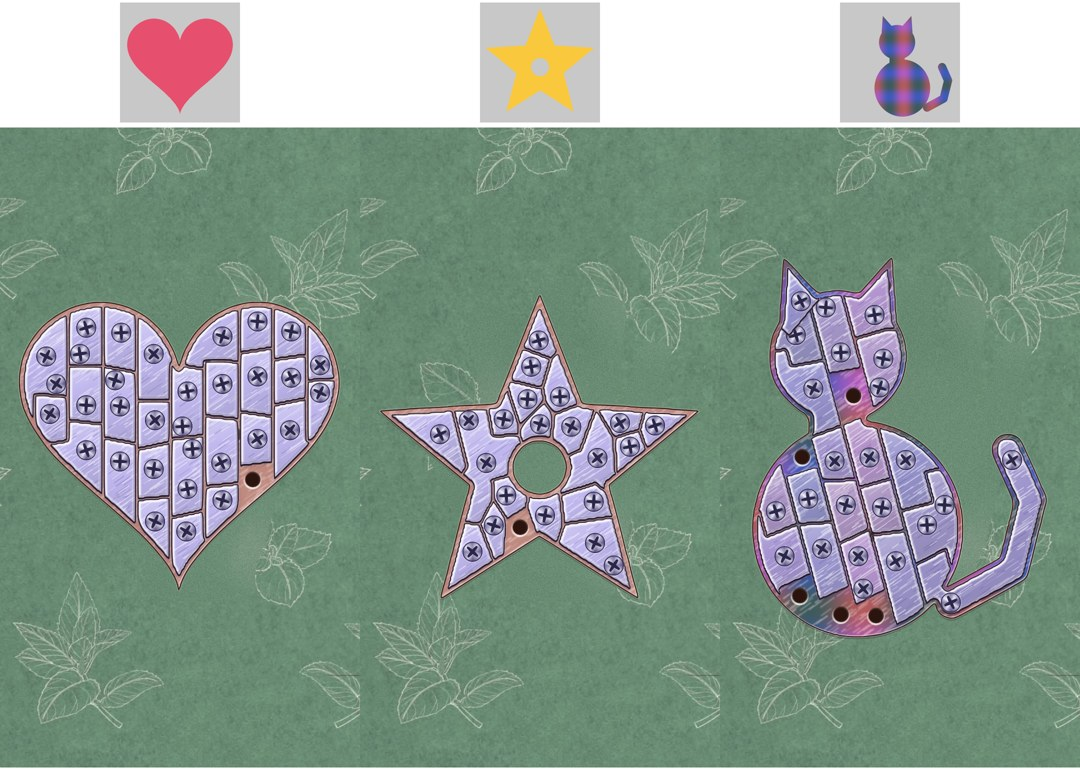
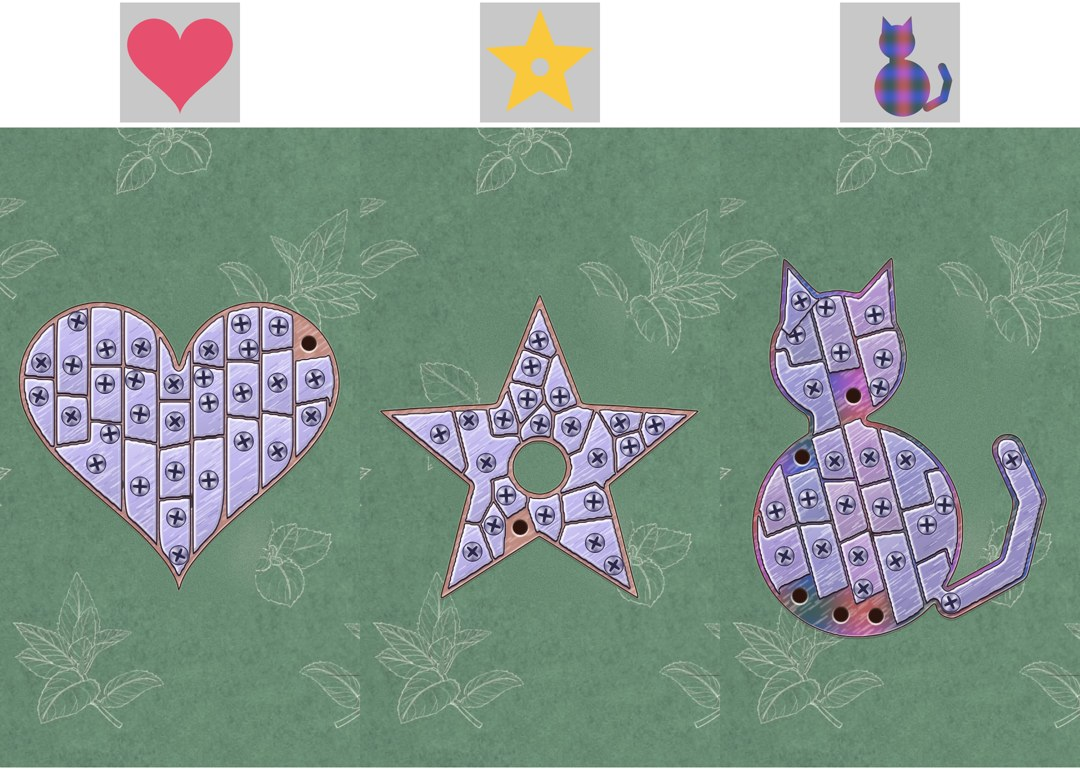
v1.7.1: 同层板块不再穿模

Changed region(s): [[0.0, 0.4052, 0.3056, 0.7481]]

diff --git a/ref/PROGRESS.md b/ref/PROGRESS.md
@@ -60,3 +60,7 @@
 - v1.7：板块之间碰撞。src/world.js（planck.js + poly-decomp，打包进单文件）：板=刚体（静态/铰接摆动/自由下落），螺丝=静态圆，穿过对（变为动态时重叠的对，分开后恢复），卡住兜底 collStuckMs，碰撞轮廓内缩 ppInset，角阻尼 angDamp。删除 v1.6 的 collMaxMs 截止与永久忽略。逻辑：setSwingAngle 同步摆动板实际停下的角度；自动通关逐步校验计划、失效即重解，等摆动静止/遮挡解除；选螺丝查画面遮挡。设置 v11（collMaxMs→collStuckMs；新增 plateCollide/ppRest/ppFric/ppInset/angDamp）。随机关生成修复（以前总回退参考关卡）。测试：test:collision 重写（16 项，含两板下落互撞、落到固定板、叠放穿过、摆动被板/螺丝挡住），test:autoall（参考/随机×3/图形 全程自动通关无板残留），test/collision-video.mjs 逐帧抓取。截图 screenshots/plate_plate_collision.jpg；/workspace/screw_plate_collision.mp4（12s）。
 - v1.7 收尾（完成，提交 e3637a1 'v1.7: 板块之间碰撞'）：自动通关在目标孔仍被画面上的板挡住时把螺丝放回并重新规划（window.__autoStats replan/abort/dev），__game.solveNow/physBusy。全部测试通过：test:logic、npm test(25/25, 43s)、test:ae(PSNR 均值 35.3)、test:3d(Blender PASS, PSNR 27–30)、test:physics、test:norec、test:holes、test:collision(16/16)、test:collcap、test:autoall(5/5，replan/abort/dev 均 0)、shape-test(heart/star_hole/cat)。Pages 与服务器 /screw/ cmp 一致。
 - 已知：被托住 >collStuckMs(1.2s) 的下落板会关闭碰撞穿过掉出（参考关卡 25 块中约 13 块触发，ghosts 计数），想让穿过更少可调大 collStuckMs（等更久再穿过），或增大 ppInset（碰撞轮廓内缩更多，邻板边缘更不容易托住下落板）；swingSyncedAngles 里的 0 表示摆动板一开始就被挡住几乎没转。
+- v1.7.1（完成）同层板块不再穿模（用户截图：heart 图形关卡单钉摆动板穿入左邻板与螺丝）。根因：图形关卡板轮廓很密（96–1400 点），旧 quickDecomp/earClip 静默失败，碰撞夹具只覆盖板面积 1–57%。修复：world.js cleanPoly + 保证推进的耳切 + Hertel–Mehlhorn 合并（夹具/内缩轮廓覆盖率 参考 ≥98.9%、随机 100%、heart ≥98.2%、star_hole ≥99.1%、cat ≥99.8%，test:cover）；同层板永不穿过，不同层仅当真实重叠 > ppPassArea(40px²)；板-螺丝只对自己孔里的螺丝穿过；逻辑同步物理实际位姿（poseFromXf/setPlatePose/poseDiff）；edgeTol；随机关同层一格一板；ppInset 1.5→0.5（设置 v12）。
+  - 死锁修复：已插螺丝的孔判定“压住/固定”用严格规则（孔中心在板轮廓内或对准，plateCovers strict）——螺丝杆有碰撞，摆动板只会贴着杆停下，贴边算压住会“板压螺丝、螺丝固定板”互锁（heart 自动通关卡在 22/25）；空孔仍用边缘容差。
+  - 测试：test/overlap-test.mjs（npm run test:overlap：heart×2/参考/随机×2 全程自动通关，每帧同层板对穿透深度与板-螺丝杆穿透 ≤2px，实测最大 1.95/1.17px，均完成且 replan/abort 0）；collision-test 叠放用例改为不同层。全部套件逐个通过。截图 screenshots/swing_overlap_fix.jpg（修复前 10.5° 穿入邻板 vs 修复后 3.1° 被挡住）。
+  - 已知：overlap-test 不统计 ghost（卡住 >collStuckMs 后穿过掉出的下落板，heart 约 16/25）；紧密排列下多数摆动板几乎转不动（autoall swingSyncedAngles≈0）。
